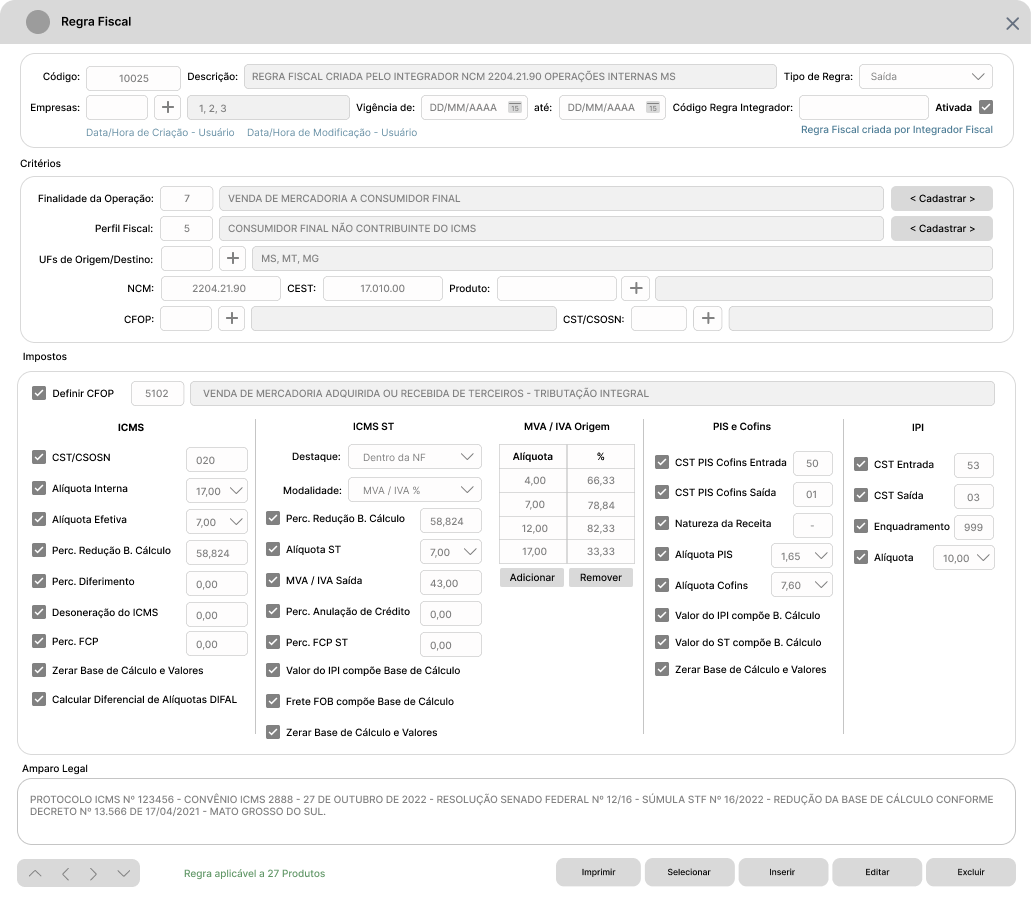
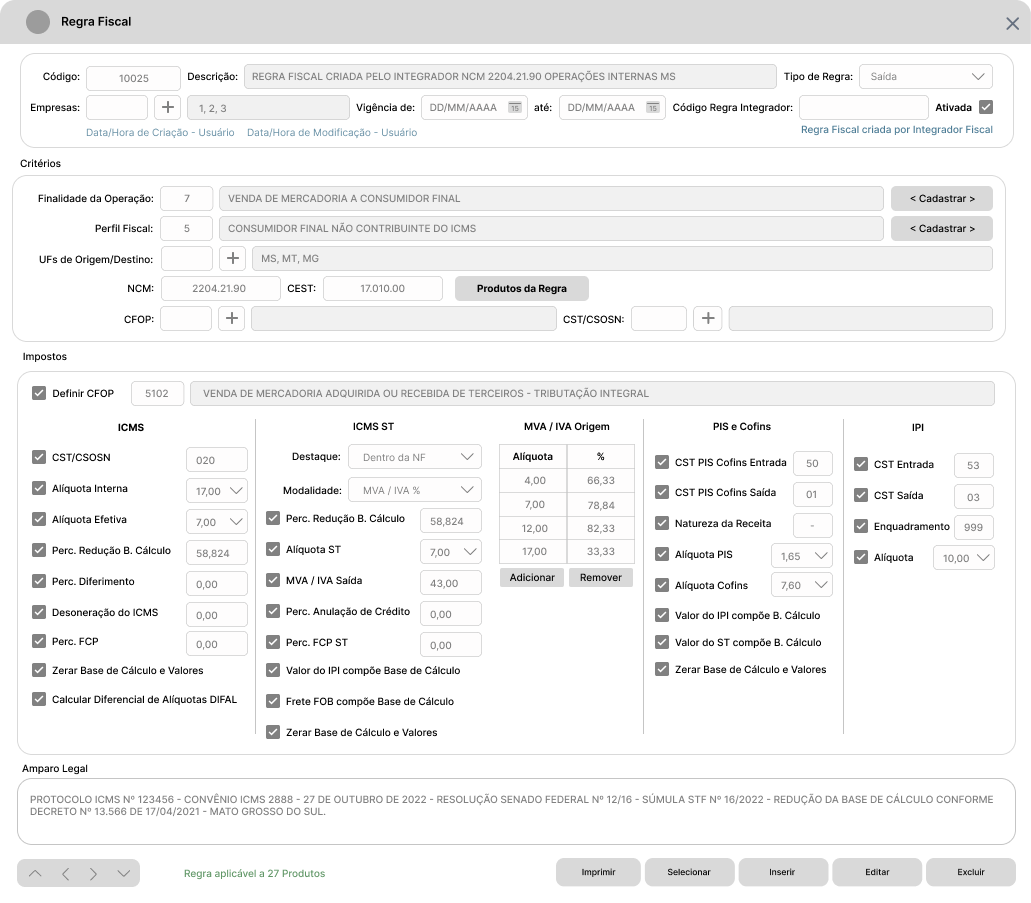
Add Produtos da Regra

Changed region(s): [[0.4345, 0.2791, 0.6208, 0.3411]]

diff --git a/Documentação - Integrações.md b/Documentação - Integrações.md
@@ -242,7 +242,7 @@ Nesta Seção são descritos os Ajustes e Novos Campos necessários, e descreve 
 | Adicionar Texto                        | Data, Hora e Usuário de Modificação da Regra            | Criar campo para exibir a Data, Hora e Usuário de Modificação da Regra Fiscal. O campo já existe, apenas deve ser identificado o Integrador quando necessário.                                                                                                                                                                 | Apenas Texto somente leitura destacado.                                                                                                                                  |
 | Adicionar **Campo Numérico**           | **Código Regra Integrador**                             | Criar campo para armazenar o Código da Regra Fiscal da Base do Integrador, quando devolvido pela API. Esta informação será utilizada para eventuais atualizações da Própria Regra do Integrador, para evitar que Regras Fiscais em duplicidade possam ser criadas (quando for o caso), e para eventuais soluções de problemas. | Armazenar o Código da Regra retornado pela API no campo especificado na **Documentação do Integrador**.                                                                  |
 | **Ajuste de Campo**                    | Critérios / UFs de Origem                               | Alterar a exibição do Texto conforme o Tipo de Regra (Entrada ou Saída). Se Entrada, exibir **"UFs de Origem"**. Se Saída, exibir **"UFs de Destino"**.                                                                                                                                                                        | Preenchimento Obrigatório.                                                                                                                                               |
-| Adicionar **Botão/Função**                 | Critérios / Produto                                     | Adicionar um Botão ou uma Função para visualizar todos os Produtos que utilizarão a Regra Fiscal criada, podendo ser um **Pop-up** que contenha uma Grade com os Produtos e opção para Adicionar ou Remover da Grade.                                                                                                          | Permitir adicionar Produtos que não estão em uma Regra Fiscal com os mesmos Critérios.                                                                                   |
+| Adicionar **Botão/Função**             | Critérios / **Produtos da Regra**                       | Adicionar um Botão ou uma Função para visualizar todos os Produtos que utilizarão a Regra Fiscal criada, podendo ser um **Pop-up** que contenha uma Grade com os Produtos e opção para Adicionar ou Remover da Grade.                                                                                                          | Permitir adicionar Produtos que não estão em uma Regra Fiscal com os mesmos Critérios.                                                                                   |
 | **Ajuste de Texto**                    | **Parâmetros Aplicáveis**                               | Alterar o Texto "Parâmetros Aplicáveis" para **"Impostos"**                                                                                                                                                                                                                                                                    | -                                                                                                                                                                        |
 | **Remover**                            | Texto "Selecione abaixo os campos..."                   | Remover o Texto "Selecione abaixo os campos que serão modificados ao utilizar esta regra." do Grupo **"Impostos"**                                                                                                                                                                                                             | -                                                                                                                                                                        |
 | Adicionar **Caixa de Seleção**         | ICMS / Alíquota Interna do ICMS                         | Criar Seleção para habilitar o preenchimento da Alíquota Interna utilizada em Documentos Fiscais.                                                                                                                                                                                                                              | Quando selecionada, habilita o campo de preenchimento da Alíquota.                                                                                                       |
